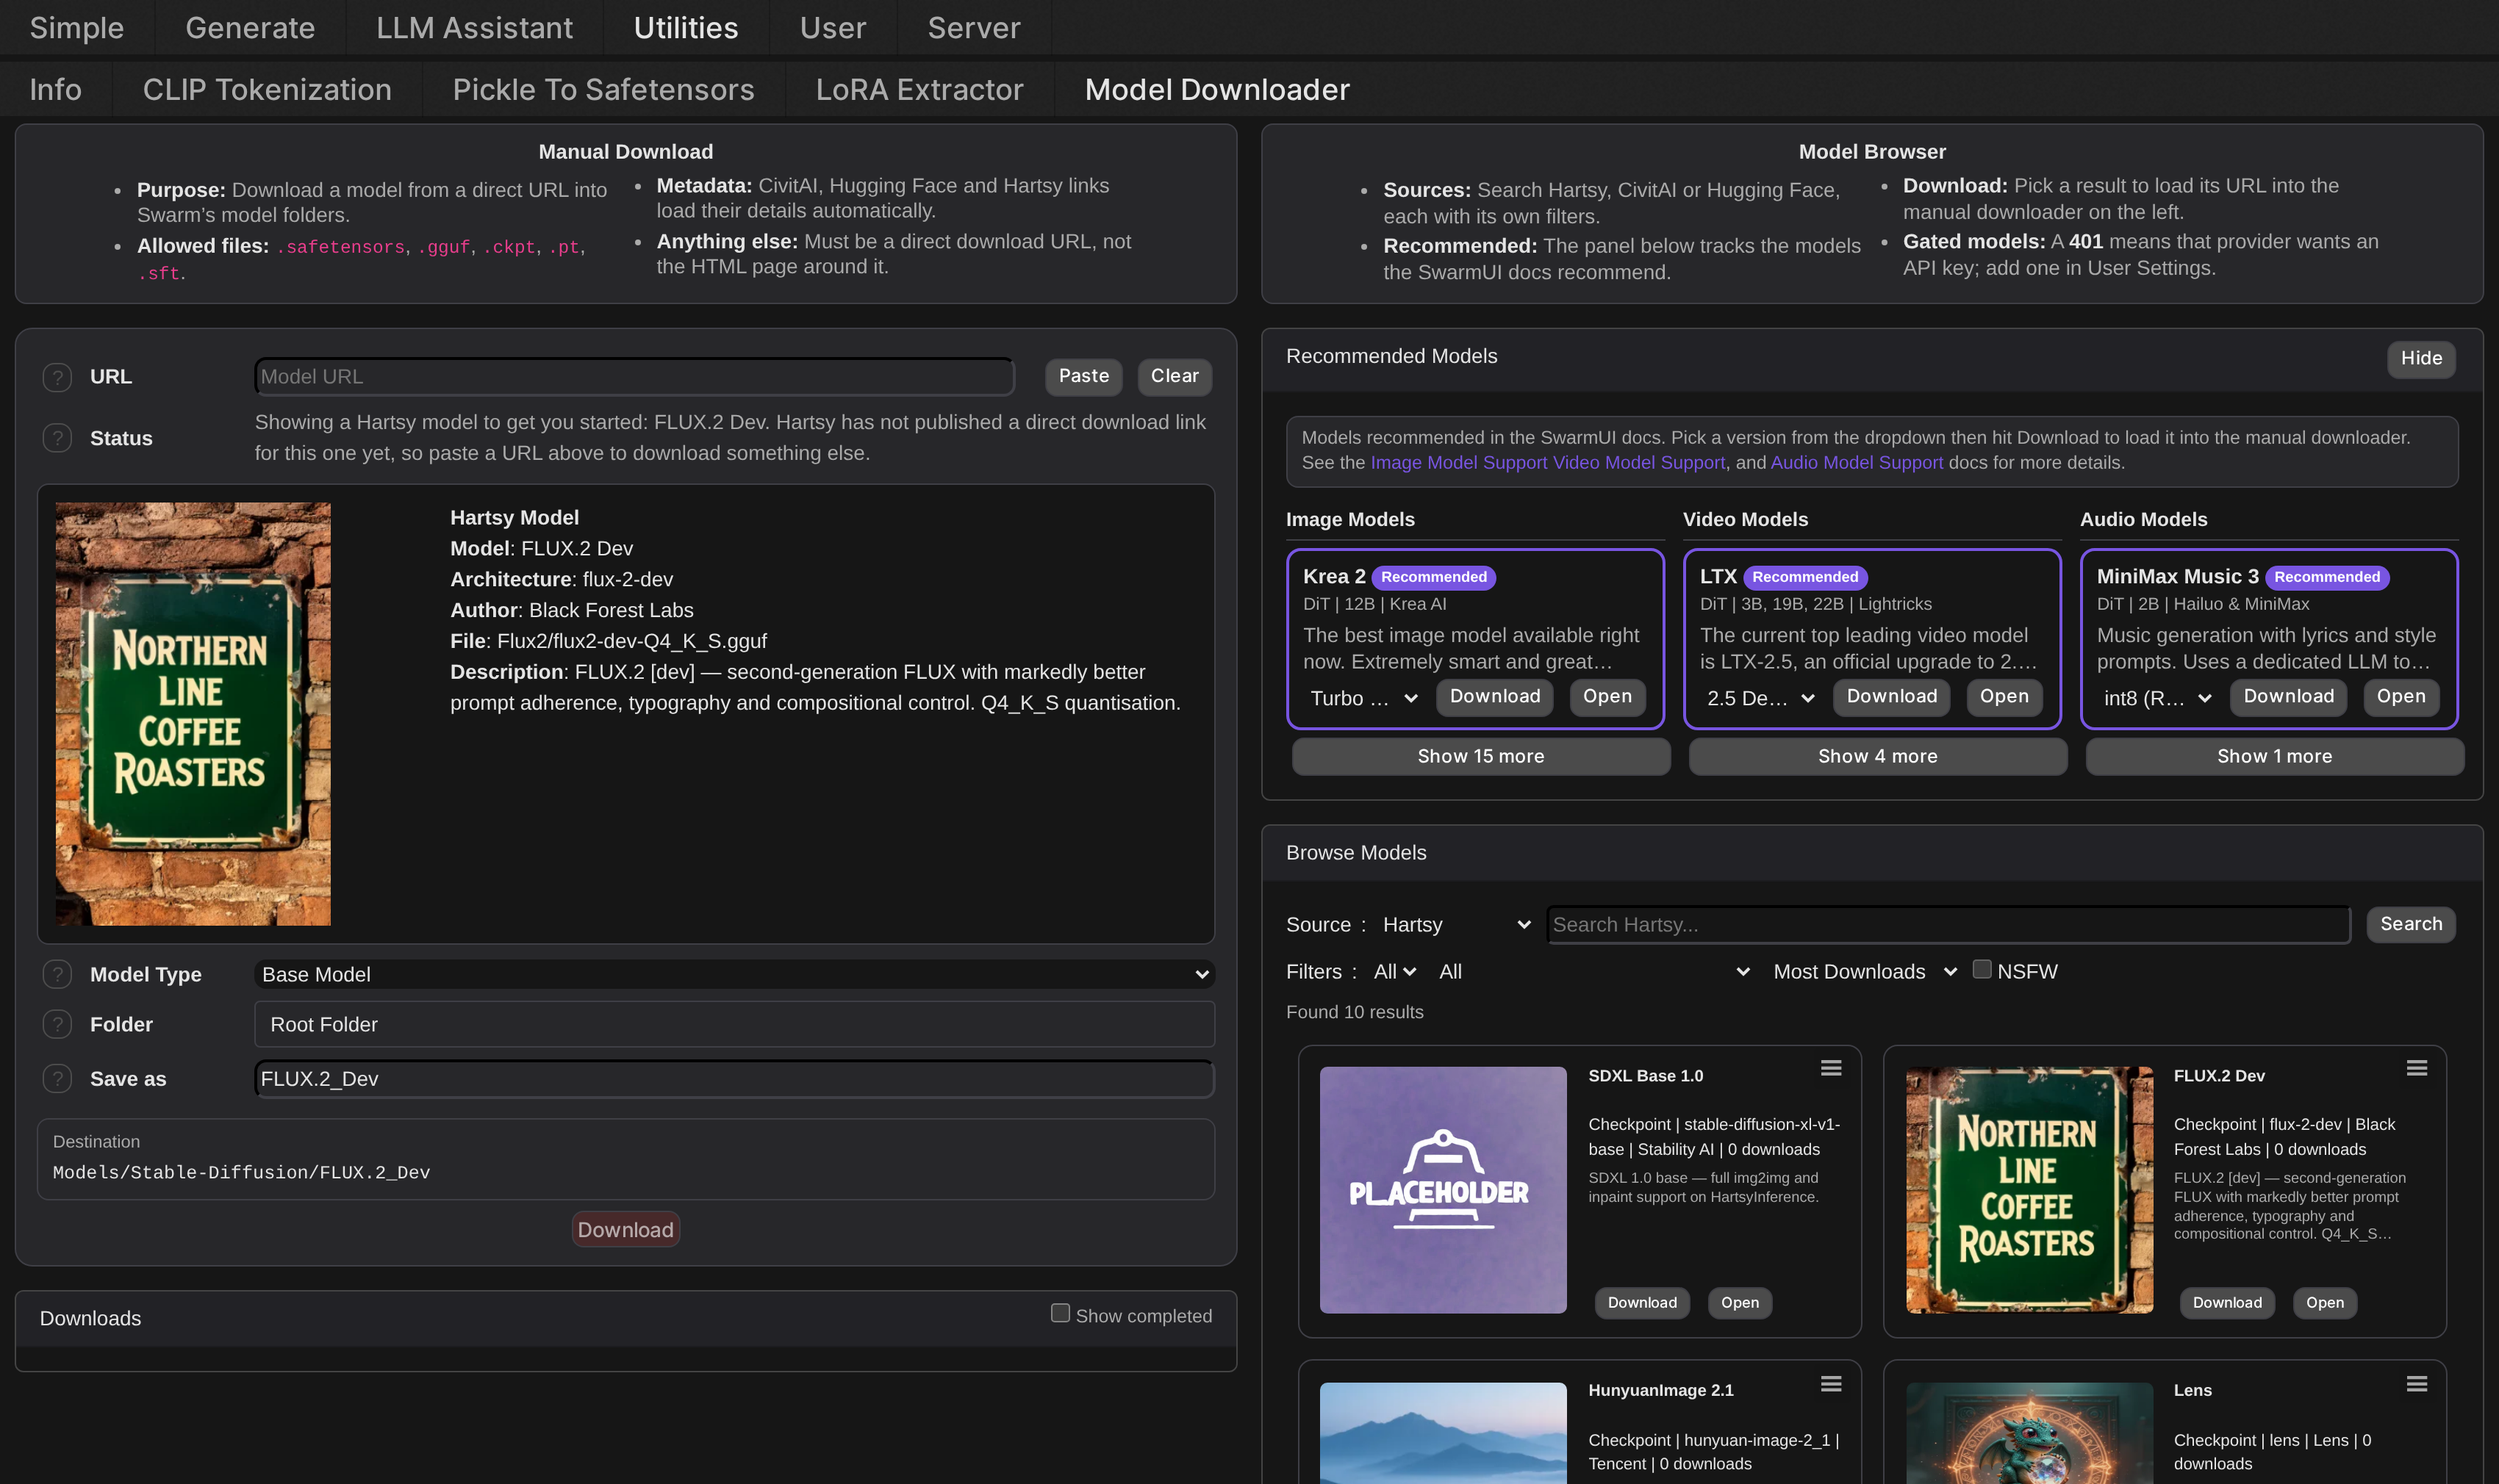
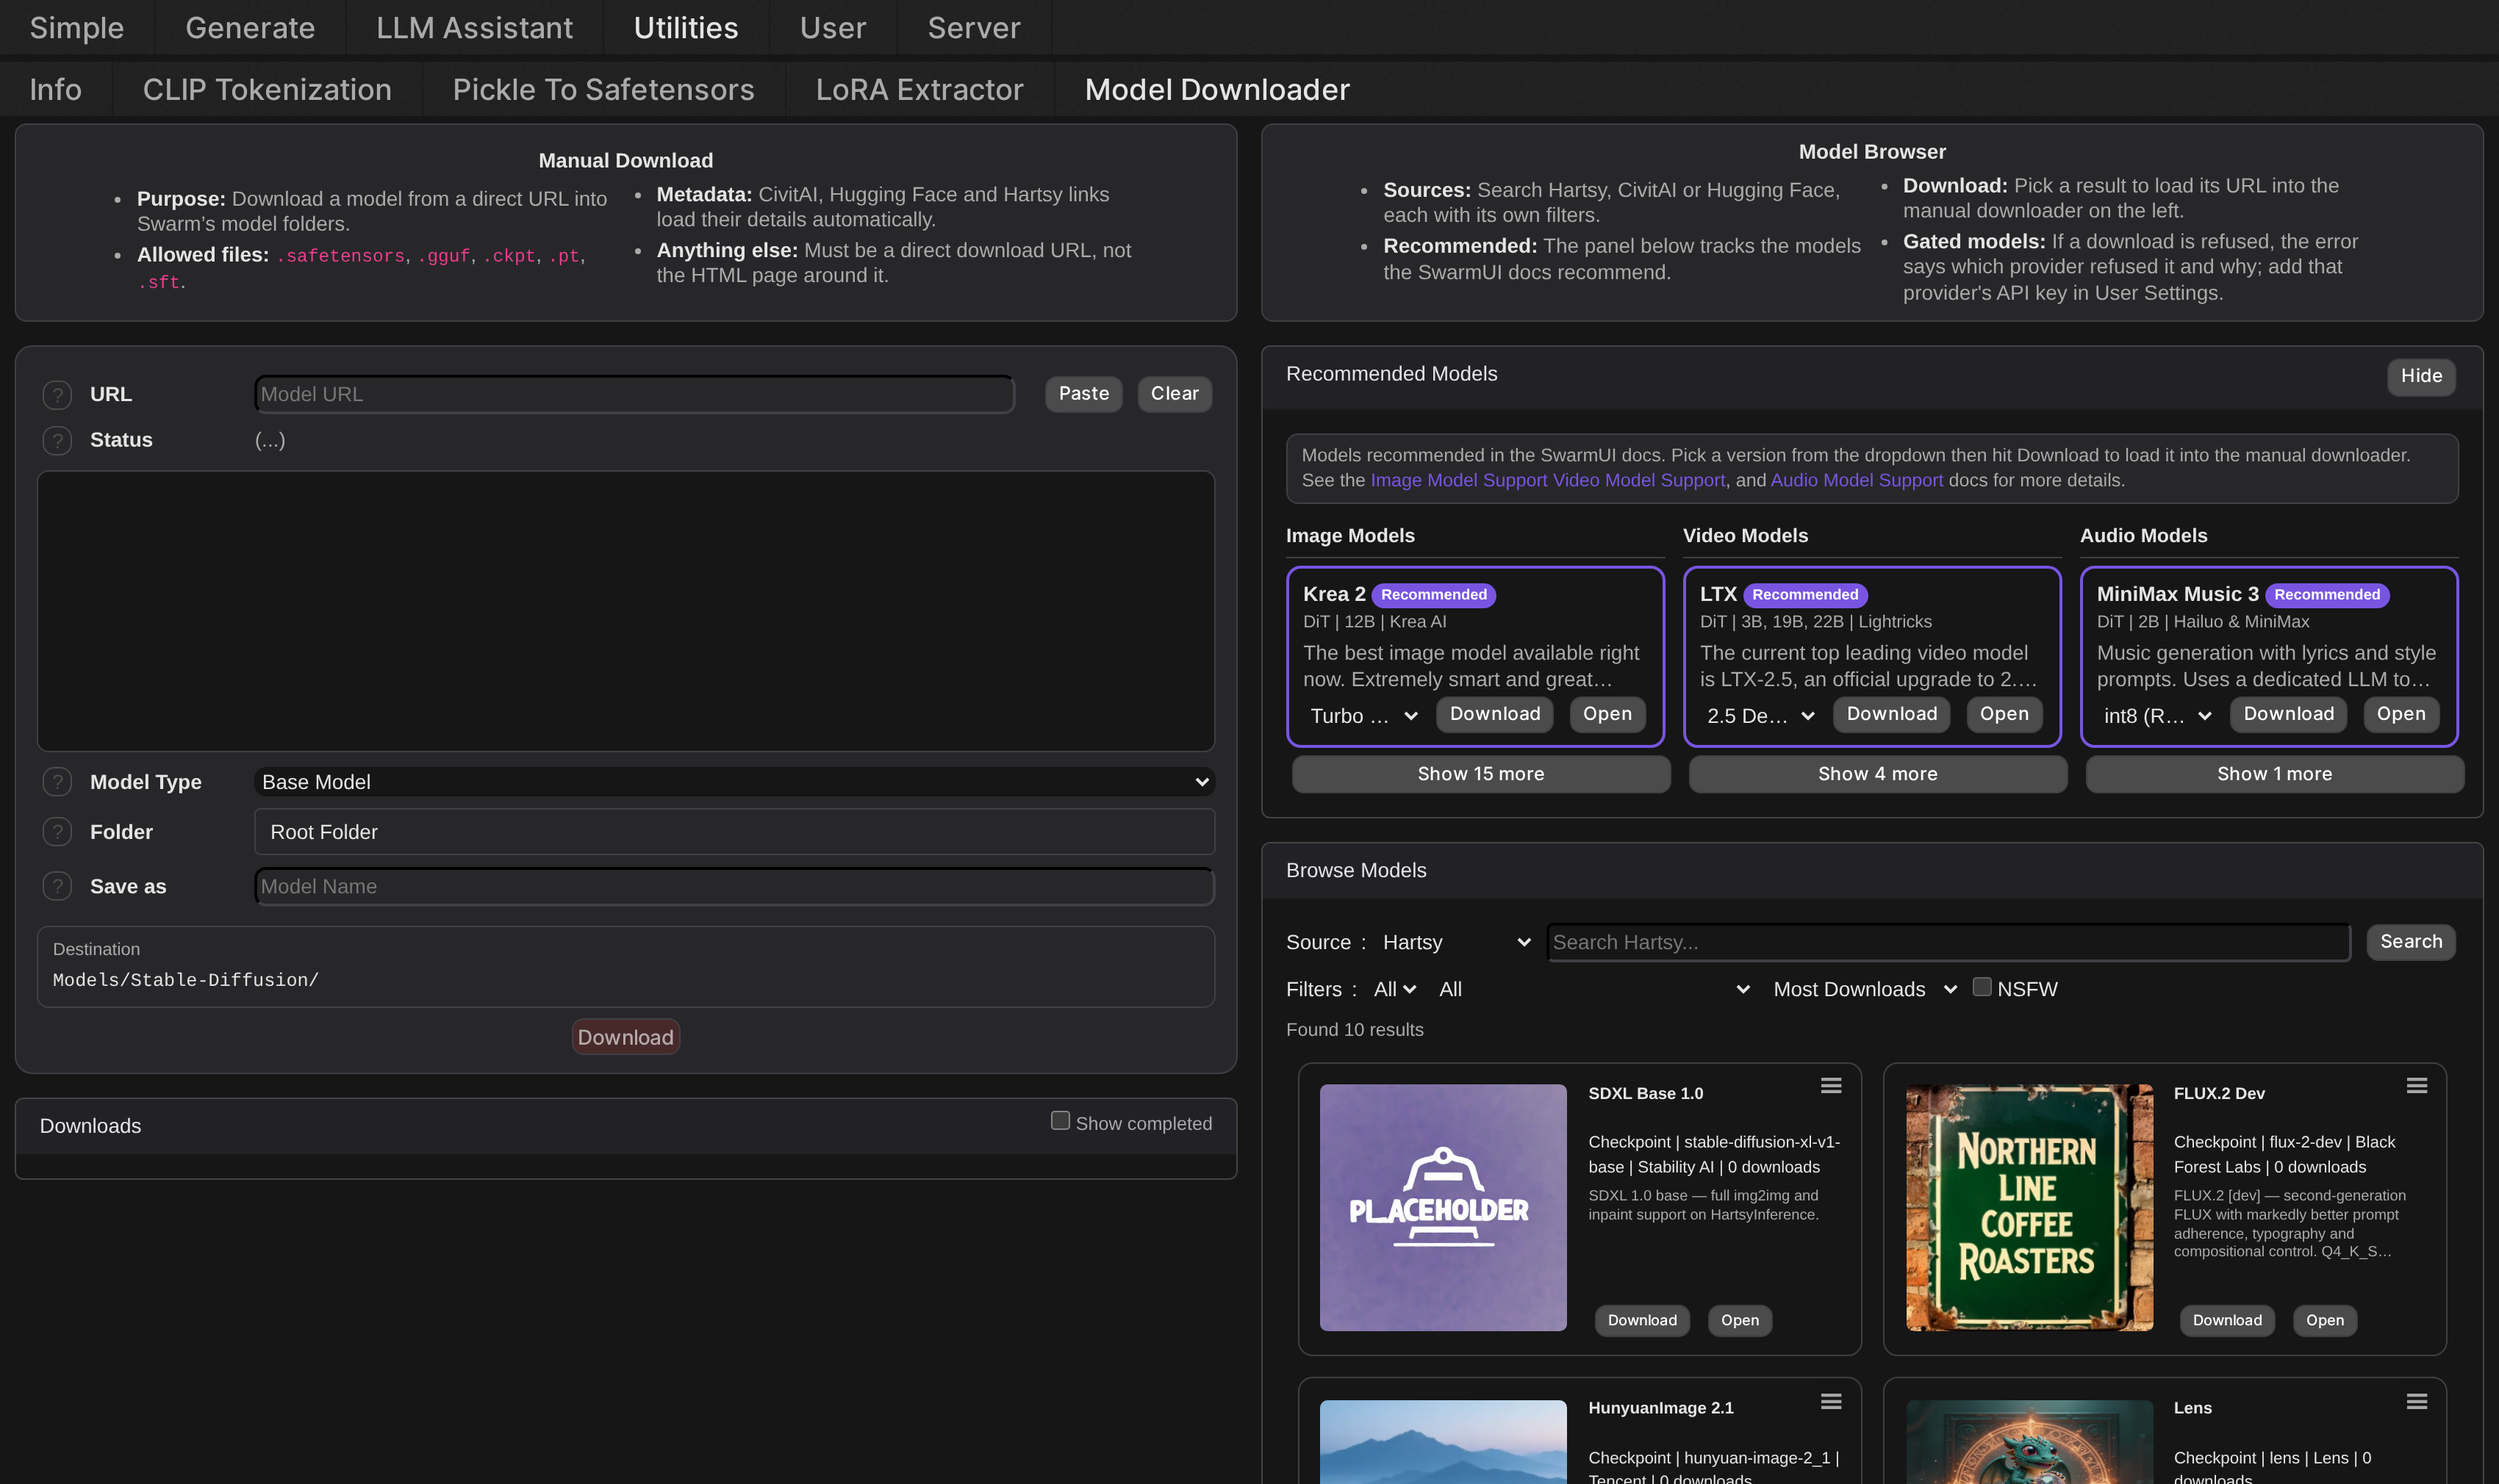
remove auto load model

diff --git a/Assets/js/enhanced_downloader.js b/Assets/js/enhanced_downloader.js
@@ -417,121 +417,6 @@
         modelDownloader.urlInput = wrapped;
     }
 
-    const SAMPLE_MODEL_POOL_SIZE = 50;
-
-    function pickSampleHartsyModel(items) {
-        const usable = items.filter(item => item && item.name && !item.isNsfw);
-        if (!usable.length) {
-            return null;
-        }
-        return usable[Math.floor(Math.random() * usable.length)];
-    }
-
-    function applySampleHartsyModel(item) {
-        const utils = window.EnhancedDownloader && window.EnhancedDownloader.Utils;
-        const title = `${item.name}`;
-        const cleanName = title.replaceAll(/[\\/:*?"<>|]/g, '-').replaceAll(' ', '_');
-        const architecture = `${item.baseModel || ''}`;
-        const downloadUrl = `${item.downloadUrl || ''}`;
-
-        if (modelDownloader.type && architecture) {
-            modelDownloader.type.value = architecture.toLowerCase().endsWith('/lora') ? 'LoRA' : 'Stable-Diffusion';
-            modelDownloader.type.dispatchEvent(new Event('change'));
-        }
-        modelDownloader.name.value = cleanName;
-        modelDownloader.name.dispatchEvent(new Event('change'));
-
-        if (downloadUrl) {
-            modelDownloader.url.value = utils.appendExtensionHint ? utils.appendExtensionHint(downloadUrl, item.fileName) : downloadUrl;
-            modelDownloader.nameInput();
-            modelDownloader.urlStatusArea.innerText = `Showing a Hartsy model to get you started: ${title}. Paste your own URL over it any time.`;
-        }
-        else {
-            modelDownloader.url.style.borderColor = '';
-            modelDownloader.name.style.borderColor = '';
-            modelDownloader.urlStatusArea.innerText = `Showing a Hartsy model to get you started: ${title}. Hartsy has not published a direct download link for this one yet, so paste a URL above to download something else.`;
-        }
-
-        if (typeof utils.setManualDownloaderInfo === 'function') {
-            const descText = stripHtmlToText(item.description || '');
-            const infoHtml = `
-                <b>Hartsy Model</b>
-                <br><b>Model</b>: ${escapeHtml(title)}
-                ${architecture ? `<br><b>Architecture</b>: ${escapeHtml(architecture)}` : ''}
-                ${item.creator ? `<br><b>Author</b>: ${escapeHtml(item.creator)}` : ''}
-                ${item.fileName ? `<br><b>File</b>: ${escapeHtml(item.fileName)}` : ''}
-                ${descText ? `<br><b>Description</b>: ${escapeHtml(descText)}` : ''}
-            `;
-            const rawMeta = JSON.stringify({
-                'modelspec.title': title,
-                'modelspec.description': `From ${item.openUrl || 'https://hartsy.ai'}\n${descText || ''}`,
-                'modelspec.architecture': architecture,
-            }, null, 2);
-            utils.setManualDownloaderInfo(infoHtml, rawMeta, item.image || '');
-        }
-    }
-
-    async function loadSampleHartsyModel() {
-        const utils = window.EnhancedDownloader && window.EnhancedDownloader.Utils;
-        if (!utils || typeof utils.genericRequestAsync !== 'function' || !window.modelDownloader) {
-            return;
-        }
-        if (!modelDownloader.url || !modelDownloader.name) {
-            return;
-        }
-        if (modelDownloader.url.value.trim() || modelDownloader.name.value.trim()) {
-            return;
-        }
-        try {
-            const resp = await utils.genericRequestAsync('EnhancedDownloaderHartsySearch', { limit: SAMPLE_MODEL_POOL_SIZE });
-            if (!resp || !resp.success || !Array.isArray(resp.items)) {
-                return;
-            }
-            const item = pickSampleHartsyModel(resp.items);
-            if (!item || modelDownloader.url.value.trim() || modelDownloader.name.value.trim()) {
-                return;
-            }
-            applySampleHartsyModel(item);
-        }
-        catch (e) {
-            console.warn('Could not load a sample Hartsy model:', e);
-        }
-    }
-
-    function tryArmSampleModelLoad() {
-        const pane = document.getElementById('Utilities-ModelDownloader-Tab');
-        if (!pane) {
-            return false;
-        }
-        if (pane.dataset.enhancedDownloaderSampleArmed) {
-            return true;
-        }
-        pane.dataset.enhancedDownloaderSampleArmed = 'true';
-        let observer = null;
-        let done = false;
-        const runOnce = () => {
-            if (done) {
-                return;
-            }
-            done = true;
-            if (observer) {
-                observer.disconnect();
-            }
-            loadSampleHartsyModel();
-        };
-        if (pane.classList.contains('active')) {
-            runOnce();
-            return true;
-        }
-        observer = new MutationObserver(() => {
-            if (pane.classList.contains('active')) {
-                runOnce();
-            }
-        });
-        observer.observe(pane, { attributes: true, attributeFilter: ['class'] });
-        return true;
-    }
-
     function tryEnhanceUrlUI() {
         if (!window.modelDownloader || !modelDownloader.url) {
             return false;
@@ -723,7 +608,6 @@
         while (Date.now() - start < DOM_READY_TIMEOUT_MS) {
             const downloads = window.EnhancedDownloader && window.EnhancedDownloader.Downloads;
             const downloadsReady = downloads ? await downloads.init() : false;
-            tryArmSampleModelLoad();
             if (tryEmbedDownloadsPanel() && tryEnhanceUrlUI() && tryEnhanceFolderUI() && tryTakeOverDownloadRun() && downloadsReady && tryEmbedCivitaiBrowserPanel() && tryEmbedFeaturedModelsPanel()) {
                 break;
             }

diff --git a/Assets/css/enhanced_downloader.css b/Assets/css/enhanced_downloader.css
@@ -225,6 +225,7 @@
 
 #Utilities-ModelDownloader-Tab .model-downloader-preview {
     background-color: var(--background);
+    min-height: 12rem;
 }
 
 @media (min-width: 769px) {

diff --git a/README.md b/README.md
@@ -5,7 +5,7 @@
 A full-featured model browser for [SwarmUI](https://github.com/mcmonkeyprojects/SwarmUI)'s **Utilities > Model Downloader** tab. Search, preview, and download models from **CivitAI**, **Hugging Face**, and **Hartsy** without leaving SwarmUI or hand-typing a URL.
 
 > [!NOTE]
-> This extension enhances SwarmUI's built-in Model Downloader. It does not replace it. The manual URL download workflow on the left is still core SwarmUI, just reorganized and given a few extra conveniences (a starter model on arrival, a folder browser, a destination preview). The model browser on the right is new.
+> This extension enhances SwarmUI's built-in Model Downloader. It does not replace it. The manual URL download workflow on the left is still core SwarmUI, just reorganized and given a few extra conveniences (a folder browser, a destination preview). The model browser on the right is new.
 
 ## Table of Contents
 
@@ -43,7 +43,6 @@ A full-featured model browser for [SwarmUI](https://github.com/mcmonkeyprojects/
 > [!NOTE]
 > The **Version** and **File** dropdowns that appear when you paste a CivitAI link are core SwarmUI's, as of its 2026-08-17 Model Downloader update, not this extension's. The extension leaves them alone, and clears them when you replace the loaded model with a Hartsy link.
 
-- **A model to start from**: opening the tab loads a random Hartsy model into the downloader, with its preview image, architecture, author and file name filled in, so the panel is never a blank form. It only fills empty fields, so it never overwrites a URL you pasted
 - **Folder browser**: a collapsible tree of your existing model folders, shown in place of core's flat Folder dropdown and sitting in the same field row; expand and collapse branches, or create a subfolder with **+ New Folder** without leaving the page
 
   ![Folder browser widget](Assets/screenshots/folder_browser.png)
